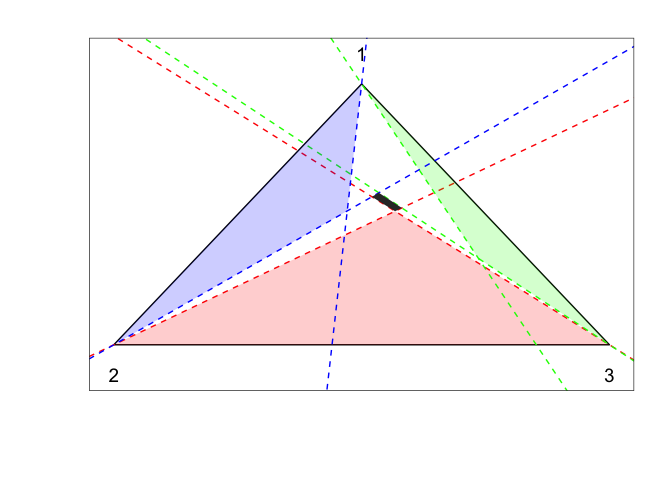
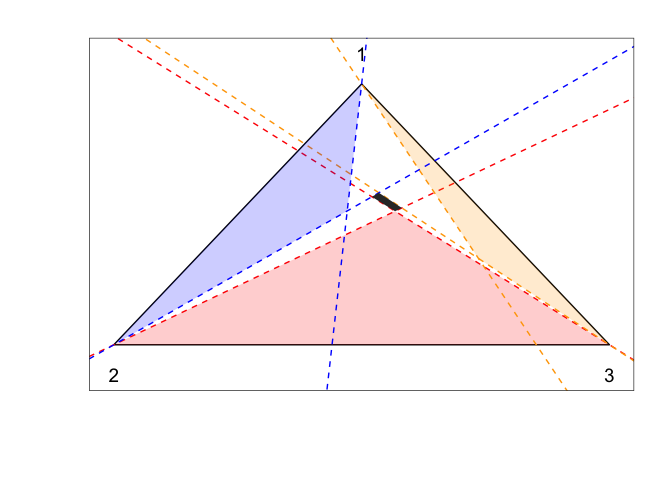
added link to article in readme

Changed region(s): [[0.5625, 0.2188, 0.875, 0.6875], [0.875, 0.6875, 0.9062, 0.7188], [0.5312, 0.1875, 0.5625, 0.2188]]

diff --git a/README.md b/README.md
@@ -3,9 +3,8 @@
 
 Implements a Gibbs sampler for Dempster’s inference approach for
 Categorical distributions; this package is a companion to an article by
-Pierre E. Jacob, Ruobin Gong, Paul T. Edlefsen, Arthur P. Dempster. The
-link to an online version of the article will be added here at some
-point.
+Pierre E. Jacob, Ruobin Gong, Paul T. Edlefsen, Arthur P. Dempster,
+available at <https://www.researchers.one/article/2019-10-14>.
 
 This is not a general-purpose statistical software. This is just a
 collection of scripts intended to reproduce figures and tables of a
@@ -68,13 +67,13 @@ niterations <- 100
 # run Gibbs sampler
 gibbs_results <- gibbs_sampler(niterations, counts)
 
-# obtain a K x K matrix representing a convex polytope in the simplex by
-# taking the terminal iteration of the Gibbs chain
-eta <- gibbs_results$etas[niterations, , ]
+# obtain a K x K matrix representing a convex polytope in the simplex
+# by taking the terminal iteration of the Gibbs chain
+eta <- gibbs_results$etas[niterations,,]
 # convert polytope to H-representation and V-representation
 eta_converted <- etas2cvxpolytope(eta)
-# H-representation, or 'half-plane' representation means the set is
-# represented as points x such that 'constr' times x <= 'rhs'
+# H-representation, or "half-plane" representation
+# means the set is represented as points x such that 'constr' times x <= 'rhs' 
 eta_converted$constr
 #> $constr
 #>            [,1]      [,2]
@@ -94,8 +93,8 @@ eta_converted$constr
 #> 
 #> $dir
 #> [1] "<=" "<=" "<=" "<=" "<=" "<=" "<=" "<=" "<="
-# V-representation, or 'vertex' representation means the set is represented
-# by its vertices
+# V-representation, or "vertex" representation
+# means the set is represented by its vertices
 eta_converted$vertices_barcoord
 #>           [,1]      [,2]      [,3]
 #> [1,] 0.5120778 0.1764902 0.3114321
@@ -103,13 +102,11 @@ eta_converted$vertices_barcoord
 #> [3,] 0.5827381 0.1738669 0.2433950
 #> [4,] 0.5674307 0.1955678 0.2370015
 
-# next we can view the polytope in the K-simplex as a triangle, since here K
-# = 3
-v_cartesian <- list(c(1/2, sin(pi/3)), c(0, 0), c(1, 0))
-cols <- c("red", "green", "blue")
-v1 <- v_cartesian[[1]]
-v2 <- v_cartesian[[2]]
-v3 <- v_cartesian[[3]]
+# next we can view the K-simplex as a triangle, with K = 3 here
+# and the feasible polytope can be shown as a polygon within the simplex
+v_cartesian <- list(c(1/2, sin(pi/3)), c(0,0), c(1,0))
+cols <- c("red", "orange", "blue")
+v1 <- v_cartesian[[1]]; v2 <- v_cartesian[[2]]; v3 <- v_cartesian[[3]]
 ## this loads ggplot2
 set_my_theme()
 g <- ggplot_triangle(v_cartesian, etas = eta, addpolytope = T, cols = cols)
@@ -119,4 +116,4 @@ g
 ![](README-usage-1.png)<!-- -->
 
 The generated polytope is the black polygon in the middle of the
-triangle, which represents the entire simplex.
+simplex.
